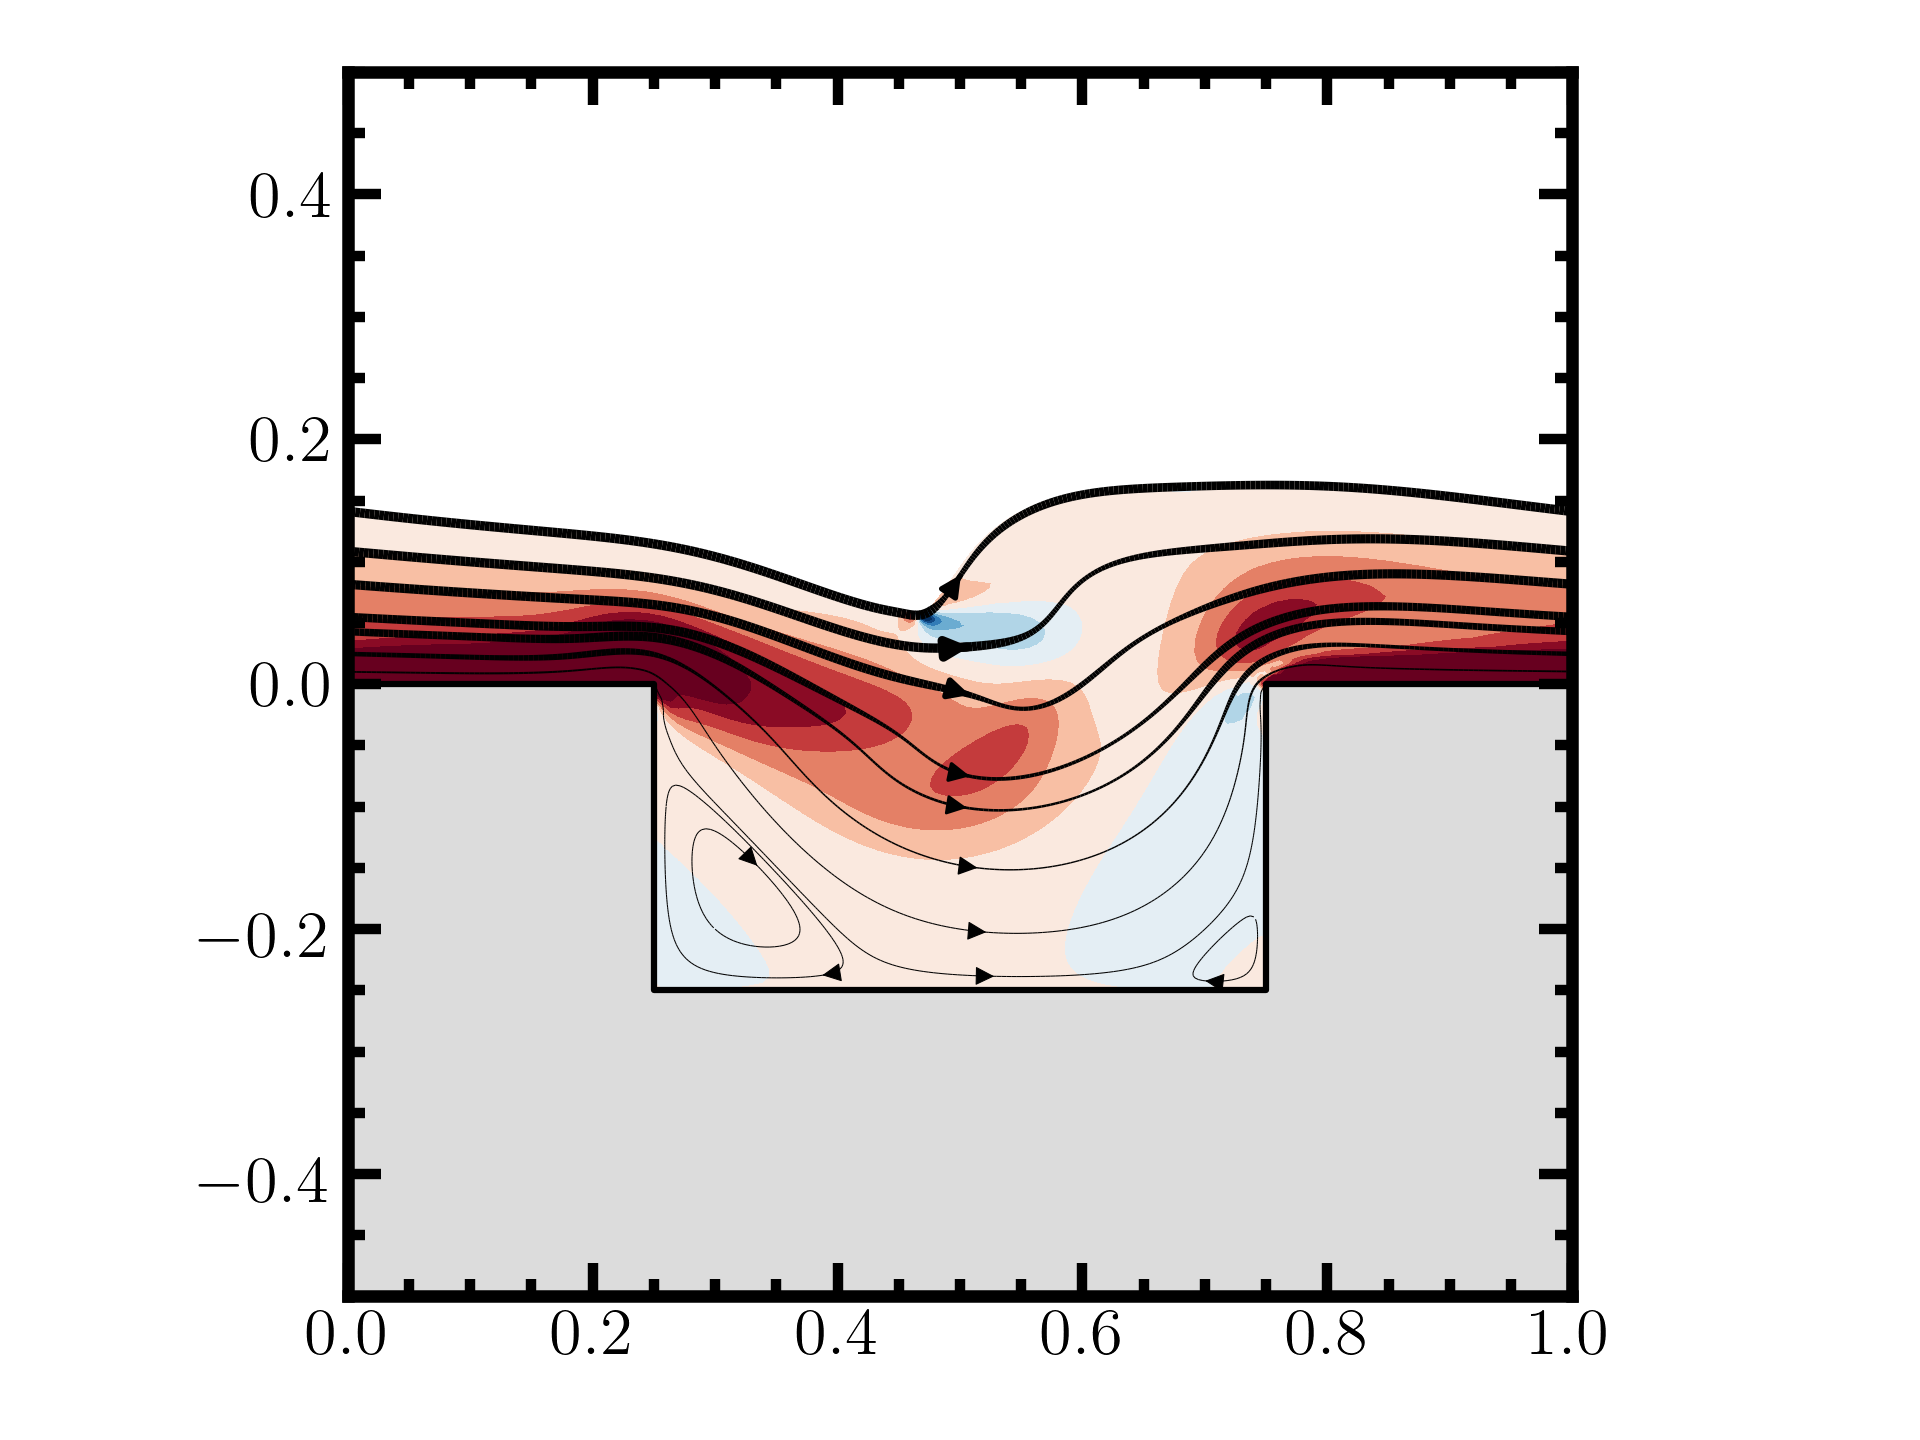
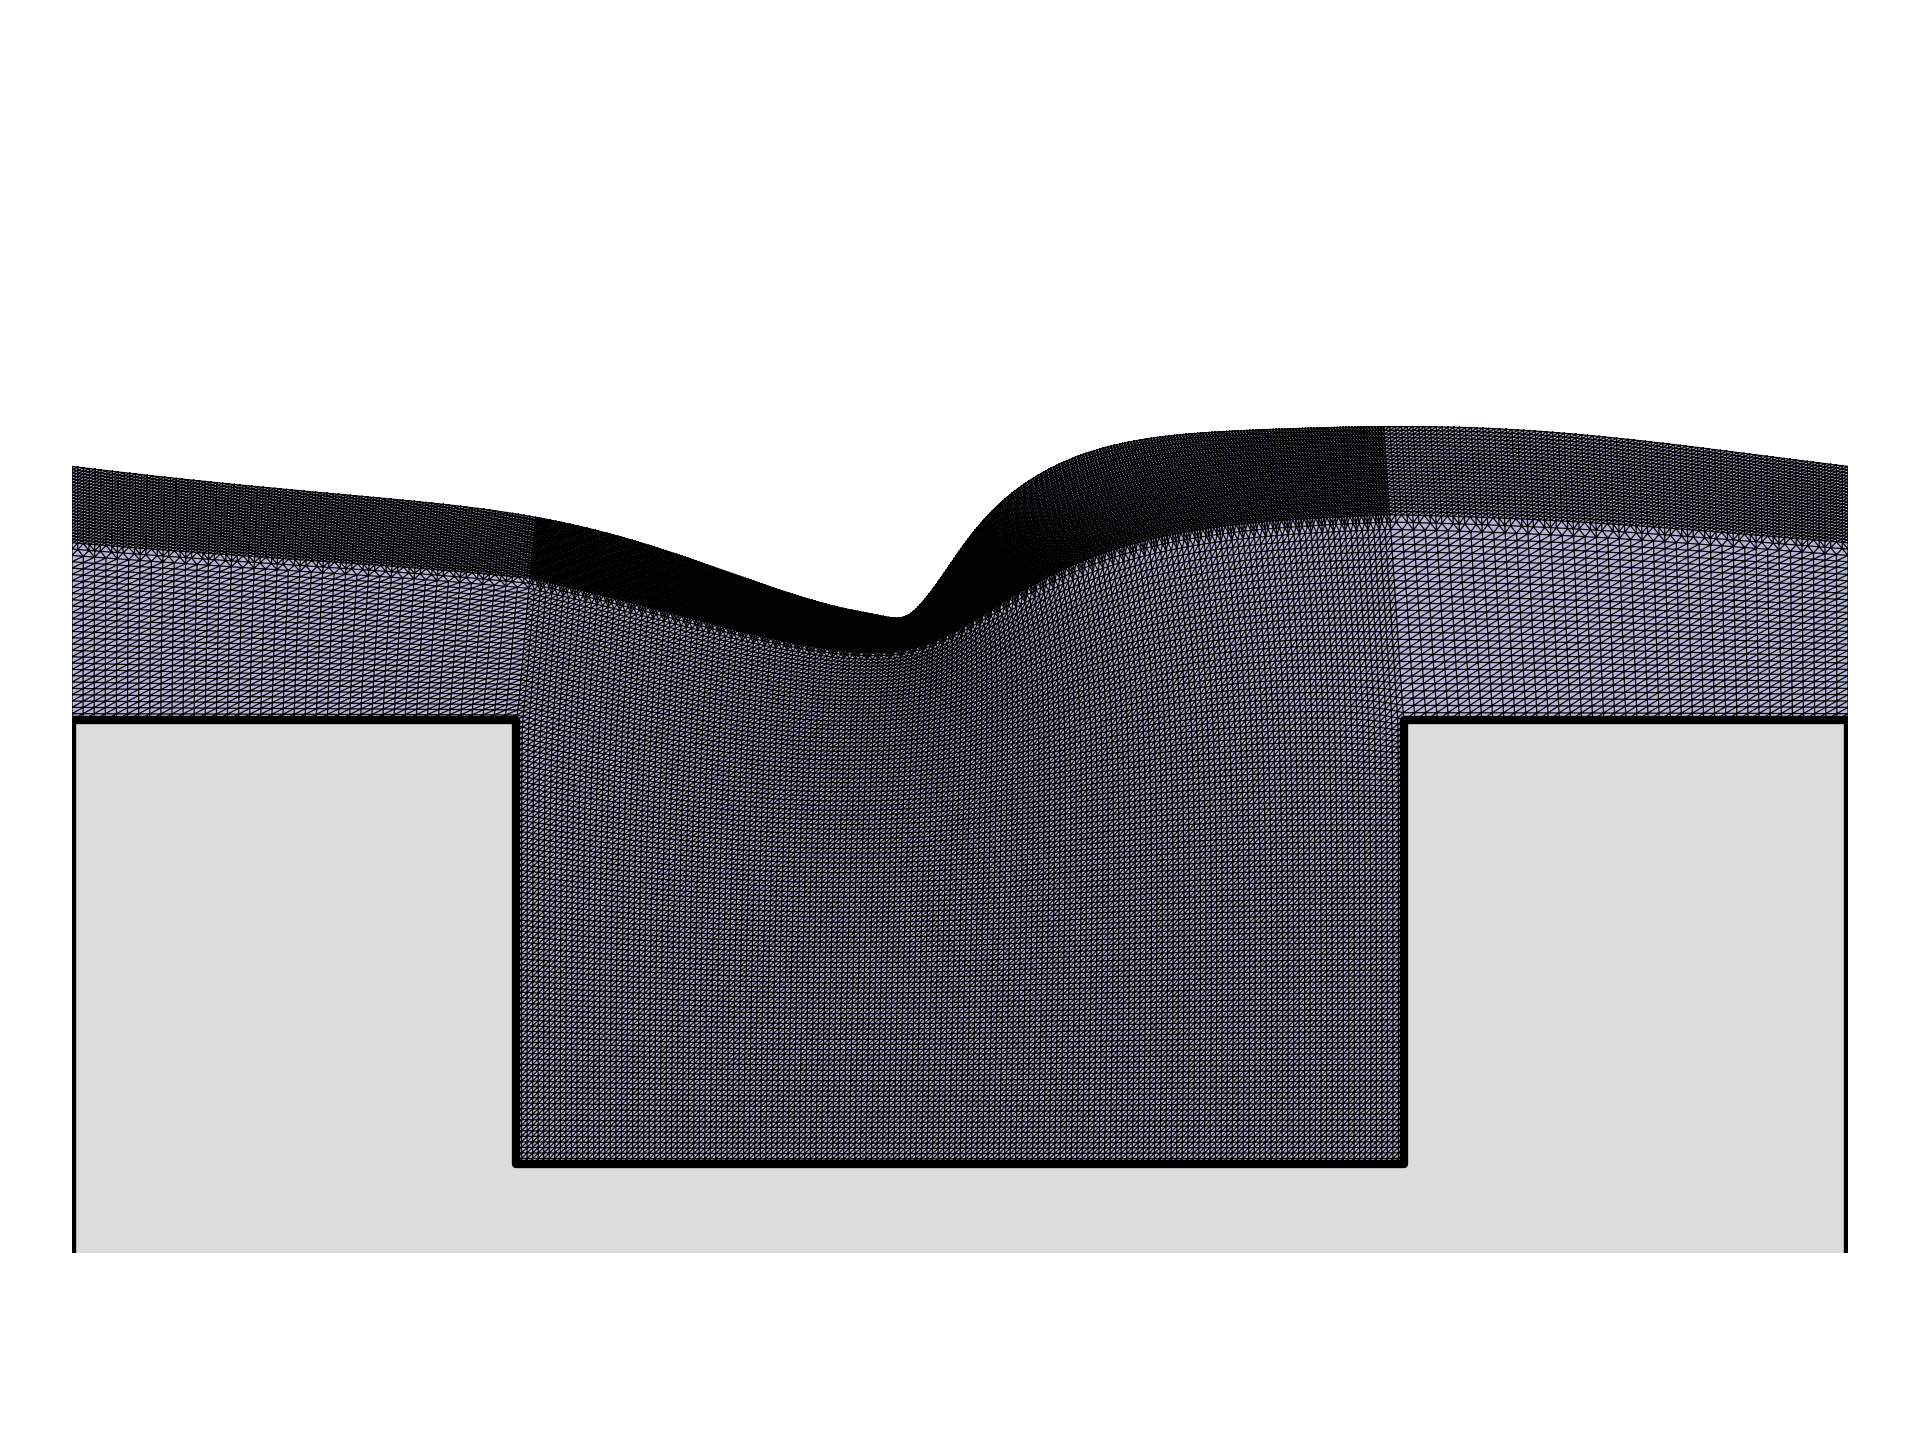
I created the background method in CustomTemplate class to print a backround for the mesh

diff --git a/my_mpl_template/template/customtemplate.py b/my_mpl_template/template/customtemplate.py
@@ -4,7 +4,7 @@ import matplotlib.pyplot                           as plt
 import matplotlib.tri                              as mtri
 import numpy                                       as np
 from   my_mpl_template.template.matplotlibtemplate import *
-
+from   collections                                 import OrderedDict
 
 
 
@@ -84,13 +84,39 @@ class CustomTemplate(MatplotlibTemplate):
         Vxd      = Vx_inter(xd, yd)
         Vyd      = Vy_inter(xd, yd)
 
-        if 'linewidth' in kwargs and not isinstance(kwargs["linewidth"], float):
-                linewidth_inter = mtri.LinearTriInterpolator(triang, kwargs["linewidth"] )
-                kwargs["linewidth"] = linewidth_inter(xd, yd)
+        # <><><><><><><><><><><><><><><><><><><><><><><><><><><><><><><><><><><><><><><><>
 
+        if 'linewidth' in kwargs and not isinstance(kwargs["linewidth"], float):
+          linewidth_inter = mtri.LinearTriInterpolator(triang, kwargs["linewidth"] )
+          kwargs["linewidth"] = linewidth_inter(xd, yd)
+
+        if 'color'     in kwargs and not isinstance(kwargs["color"], str):
+          color_inter = mtri.LinearTriInterpolator(triang, kwargs["color"] )
+          kwargs["color"] = color_inter(xd, yd)
 
         return super().streamplot(xd, yd, Vxd, Vyd, ** kwargs)
 
+    def background(self, x,y,triangles,val=0.4, **kwargs):
+        cmaps = {}
+        cmaps['Sequential'] = [
+                                'Greys', 'Purples', 'Blues', 'Greens', 'Oranges', 'Reds',
+                                'YlOrBr', 'YlOrRd', 'OrRd', 'PuRd', 'RdPu', 'BuPu',
+                                'GnBu', 'PuBu', 'YlGnBu', 'PuBuGn', 'BuGn', 'YlGn'
+                              ]
+
+
+        if 'cmap' in kwargs: 
+            if not kwargs['cmap'] in cmaps['Sequential']:
+                print("The Acceptable cmap for background method are :")
+                print(' , '.join(cmaps['Sequential']) )
+
+                cmap = 'Blues'
+            else:
+                cmap = kwargs['cmap']
+        else               : cmap = 'Blues'
+
+
+        return super().tripcolor(x,y,triangles, [val] * x.size, shading='flat' , cmap   =cmap, vmin   = 0.0   , vmax   = 1.0)
 
 
 proj.register_projection(CustomTemplate)

diff --git a/Plot_TecplotFile.py b/Plot_TecplotFile.py
@@ -16,6 +16,9 @@ from   my_mpl_template   import Blue, Red, Green,Black, Orange
 
 tecline   = bt.LoadTecplotFile("Rect.plt", info = True)
 
+
+print()
+
 zone      = tecline.getZone()
 x         = zone["X"]
 y         = zone["Y"]
@@ -63,14 +66,28 @@ stream_points = np.array([
                            ])
 
 # ax0.tricontourf(x,y,triangles,speed)
+ax0.triplot   (x,y,triangles, color = Black[0].getColor(), linewidth = 0.3)
+ax0.background(x,y,triangles, 0.4, cmap = 'Purples')
 
-ax0.tristreamplot(x, y,triangles, 
-	              zone["Vx"],
-	              zone["Vy"],
-	              density      = 10.0,
-	              color        = Black[0].getColor(),
-	              linewidth    = 0.25 + 2.0 * np.tanh( 1.5 *  speed ), 
-	              start_points = stream_points )
+# ax0.tristreamplot(x, y,triangles, 
+# 	              zone["Vx"],
+# 	              zone["Vy"],
+# 	              density      = 10.0,
+# 	              color        = Black[0].getColor(),
+# 	              linewidth    = 0.50 + 2.5 * np.tanh( 1.5 *  speed ), 
+# 	              cmap         = "jet",
+# 	              start_points = stream_points      )
+
+
+
+# ax0.tristreamplot(x, y,triangles, 
+# 	              zone["Vx"],
+# 	              zone["Vy"],
+# 	              density      = 10.0,
+# 	              color        = zone["Psi"],
+# 	              linewidth    = 0.25 + 2.0 * np.tanh( 1.5 *  speed ), 
+# 	              cmap         = "RdBu_r",
+# 	              start_points = stream_points )
 
 
 

diff --git a/Test.py b/Test.py
@@ -27,7 +27,7 @@ my_mpl.graph_mode("publication")
 # Define number of rows and columns 
 # Note that each figure has size (6.4,4.8) inches 
 # <><><><><><><><><><><><><><><><><><><><><><><><><><><><><><>
-fig, gs = figure(nrows = 1, ncols = 1)
+fig, gs = figure(nrows = 1, ncols = 2)
 
 
 # <><><><><><><><><><><><><><><><><><><><><><><><><><><><><><>
@@ -36,6 +36,7 @@ fig, gs = figure(nrows = 1, ncols = 1)
 
 ax = []
 ax.append( fig.add_subplot(gs[0,0])  )
+ax.append( fig.add_subplot(gs[0,1])  )
 
 
 # <><><><><><><><><><><><><><><><><><><><><><><><><><><><><><>
@@ -55,6 +56,20 @@ ax[i].set_limit( xrange = (0.0, 20.0, 4.0, 0.50),
 
 ax[i].legend()
 ax[i].subscript()
+
+i = 1
+ax[i].set_xlabel(r"$Re$")
+ax[i].set_ylabel(r"$H_2$")
+ax[i].plot(F0["Re"],F0["H2"], style = Blue  [0]  ,label = r"$El = 0.00$")
+ax[i].plot(F1["Re"],F1["H2"], style = Red   [0]  ,label = r"$El = 0.25$")
+ax[i].plot(F2["Re"],F2["H2"], style = Green [0]  ,label = r"$El = 0.50$")
+
+ax[i].set_limit( xrange = (0.0, 20.0, 4.0, 0.50), 
+	             yrange = (0.0, 16.0, 1.0, 0.25))
+
+ax[i].legend()
+ax[i].subscript()
+
 
 
 # <><><><><><><><><><><><><><><><><><><><><><><><><><><><><><>
